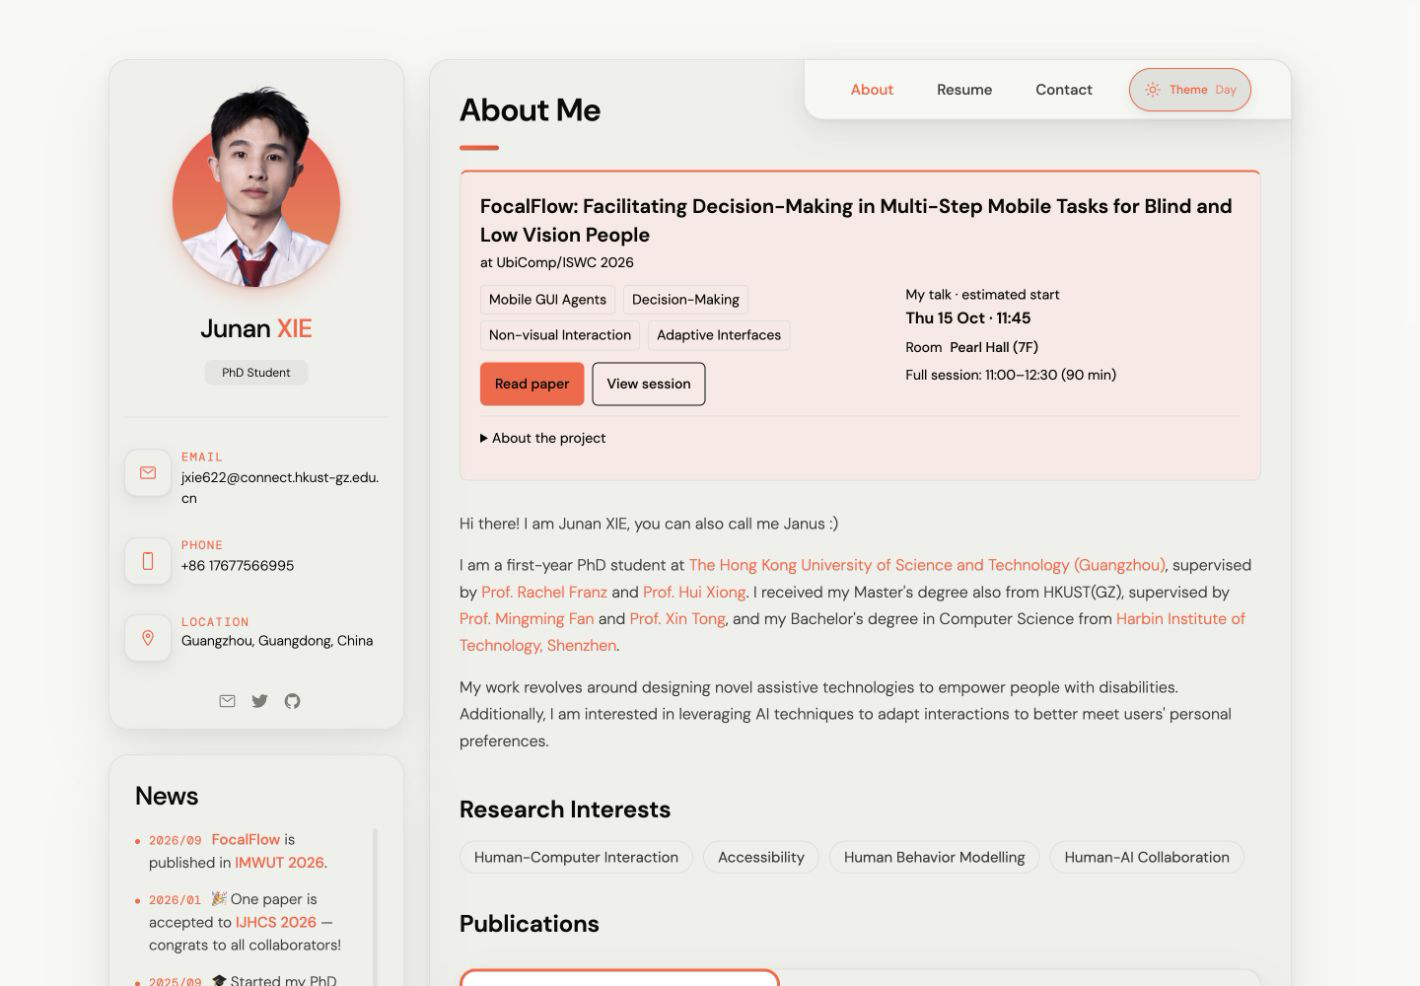
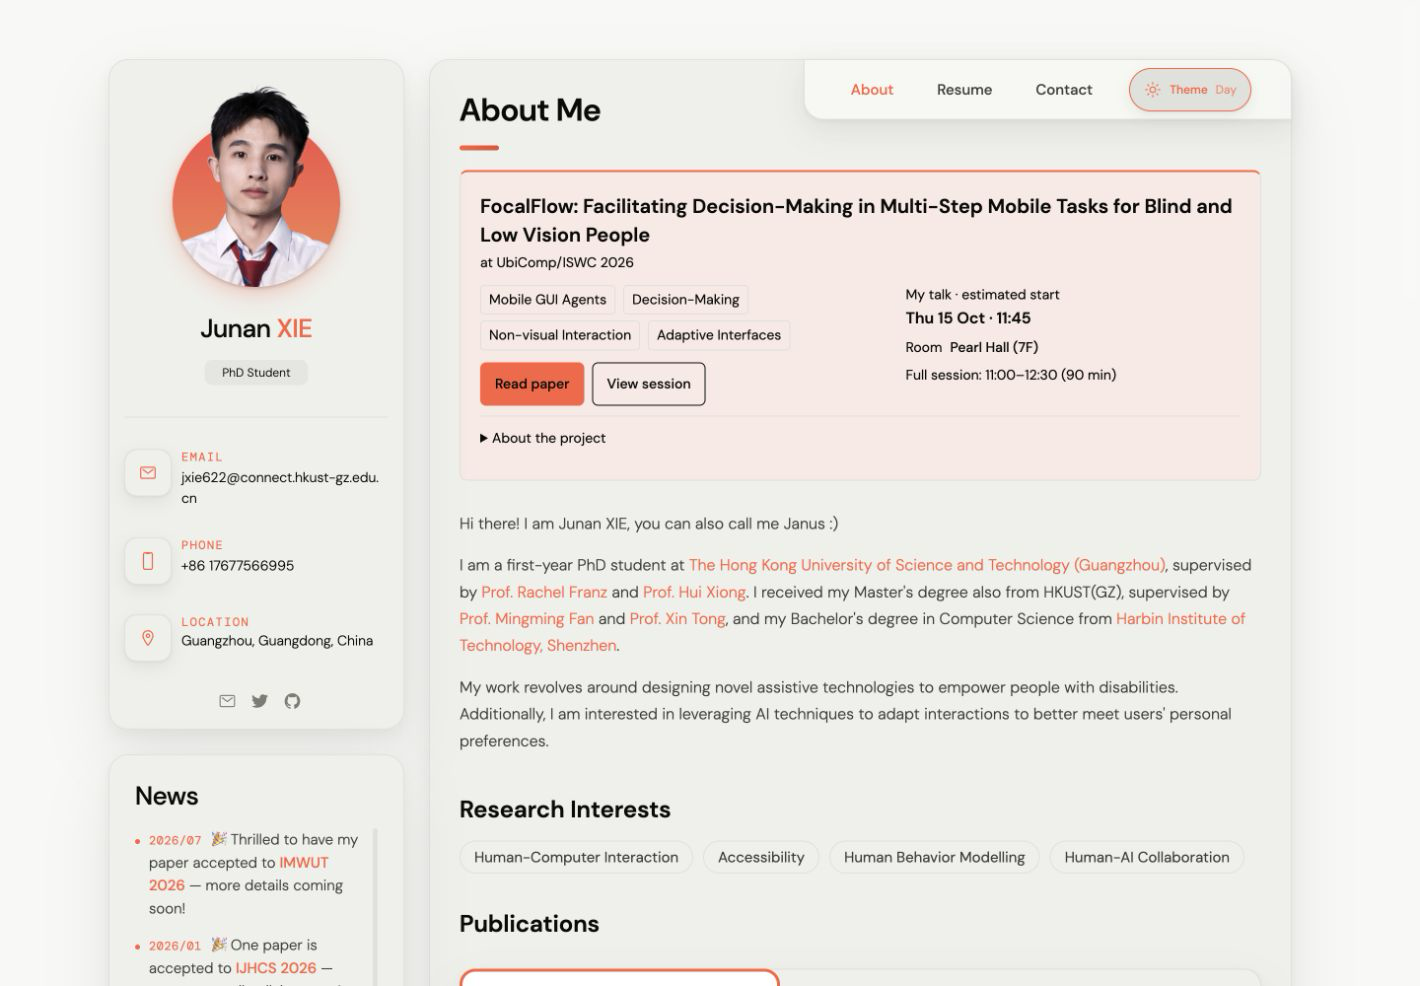
fix(content): restore acceptance news and add MR stretching paper

Changed region(s): [[0.093, 0.8215, 0.2479, 1.0]]

diff --git a/index.html b/index.html
@@ -29,7 +29,7 @@
   <!--
     - custom css link
   -->
-  <link rel="stylesheet" href="./assets/css/style.css?v=20261004-5">
+  <link rel="stylesheet" href="./assets/css/style.css?v=20261004-6">
 
   <!--
     - google font link
@@ -540,6 +540,30 @@
                   <p class="blog-text publication-venue">
                     <i>Proceedings of the ACM on Interactive, Mobile, Wearable and Ubiquitous Technologies
                       (<strong>IMWUT 2026</strong>), 10(3), September 2026</i>
+                  </p>
+
+                </div>
+
+              </a>
+
+            </li>
+
+            <!-- IMWUT 2026: context-aware adaptive stretching -->
+            <li class="blog-post-item" id="stretching-publication">
+              <a href="https://doi.org/10.1145/3810207" rel="noopener">
+
+                <div class="blog-content">
+
+                  <h4 class="h4 blog-item-title">Stand Up, Head Up, Stretch Up: Exploring Opportunities for
+                    Context-Aware Adaptive Stretching in MR for Microbreaks among Sedentary Workers</h4>
+
+                  <p class="blog-text">
+                    Zhiqing Wu, Ziyan Wang, <strong>Junan Xie</strong>, Jiawei Li, Mingming Fan
+                  </p>
+
+                  <p class="blog-text publication-venue">
+                    <i>Proceedings of the ACM on Interactive, Mobile, Wearable and Ubiquitous Technologies
+                      (<strong>IMWUT 2026</strong>), 10(2), Article 67, June 2026</i>
                   </p>
 
                 </div>
@@ -1402,9 +1426,9 @@
       <ul class="news-list">
 
         <li class="news-item">
-          <span class="news-date">2026/09</span>
+          <span class="news-date">2026/07</span>
           <p class="news-text">
-            <strong>FocalFlow</strong> is published in <strong>IMWUT 2026</strong>.
+            🎉 Thrilled to have my paper accepted to <strong>IMWUT 2026</strong> — more details coming soon!
           </p>
         </li>
 

diff --git a/assets/css/style.css b/assets/css/style.css
@@ -1752,6 +1752,14 @@ main {
   text-transform: none;
 }
 
+#stretching-publication {
+  margin-top: 8%;
+}
+
+#stretching-publication .blog-item-title {
+  text-transform: none;
+}
+
 .publication-venue {
   margin-top: 10px;
 }

diff --git a/website-demo-image/README.md b/website-demo-image/README.md
@@ -37,3 +37,13 @@ For a fresh local preview, run `python3 -m http.server 4000` from the repository
 - Estimated talk start: 11:00 + (4 − 1) × (90 minutes / 6 papers) = 11:45. This assumes the published order and equal 15-minute slots. An individual start time has not been announced, and actual order/durations can vary. The UI labels this as an estimate rather than an official time.
 - Project explanation: the owner's FocalFlow manuscript Introduction (pp. 2–3) and system section. The manuscript describes server-side LLM agents with an Android client, so the keywords do not claim fully on-device inference.
 - Highlighted figure: Figure 4 from the owner's manuscript, page 12. The original embedded RGB image is 3030 × 3712; the excerpt crops 3030 × 1810 at (0, 1902) and scales to 1600 × 956. Source colors, labels and the complete legend are preserved; the caption identifies the colors as a paper illustration. The original overview figure supplied for Publications remains intact.
+
+## News and publication update
+
+The FocalFlow News item is restored verbatim from revision 7a74a1a, including its 2026/07 date and acceptance announcement. Stand Up, Head Up, Stretch Up is added immediately after FocalFlow using the existing title/author/venue card styles; Junan Xie is marked in bold. The conference panel, all existing publication entries and JavaScript remain unchanged.
+
+- [Desktop News and publication preview](publication-news-desktop.png)
+- [New publication on mobile](publication-stretching-mobile.png)
+- Browser checks at 320, 390 and 1440 CSS pixels confirm the restored News text, publication order, complete title and author list, DOI target, and absence of horizontal overflow. Independent scope/content review and `git diff --check` pass.
+- Metadata verified against [Crossref](https://api.crossref.org/works/10.1145/3810207) and the [HKUST research portal](https://researchportal.hkust.edu.hk/en/publications/stand-up-head-up-stretch-up-exploring-opportunities-for-context-a/): five authors, IMWUT 10(2), Article 67, June 2026.
+- No verified illustration was available: the publisher PDF returned HTTP 403, and the institutional/lab records provide metadata only. The entry is text-only rather than using an unrelated or invented image.
